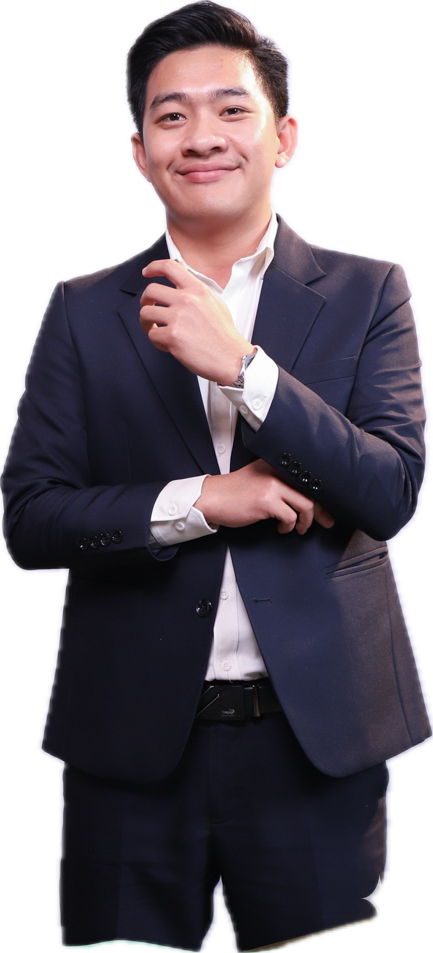
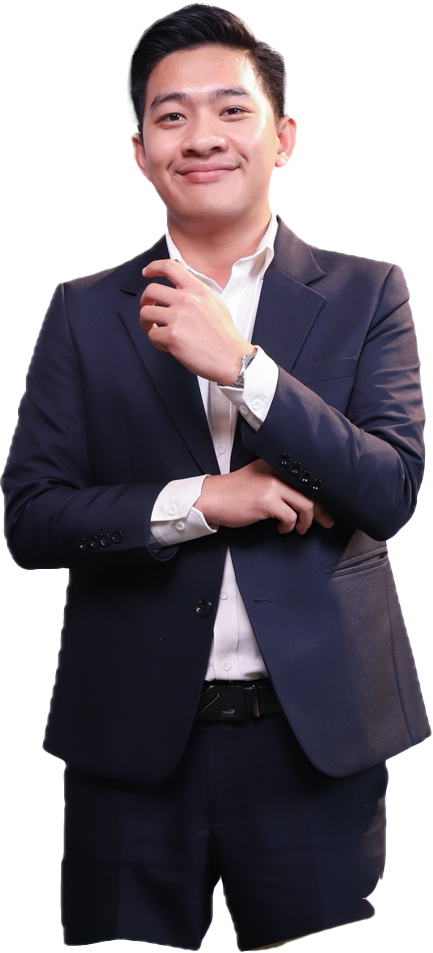
Update

diff --git a/index.html b/index.html
@@ -3834,58 +3834,30 @@
                 <div class="eu-name">Luxembourg</div>
                 <p class="eu-cities">Luxembourg City</p>
                 <span class="eu-badge">Top target · MSc 2026</span>
-                <div class="eu-tags">
-                  <span class="eu-tag">Fintech</span>
-                  <span class="eu-tag">Banking</span>
-                </div>
               </div>
               <div class="eu-card reveal" data-flag="be">
                 <div class="eu-name">Belgium</div>
                 <p class="eu-cities">Brussels · Arlon</p>
-                <div class="eu-tags">
-                  <span class="eu-tag">EU hub</span>
-                  <span class="eu-tag">Cross-border</span>
-                </div>
               </div>
               <div class="eu-card reveal" data-flag="de">
                 <div class="eu-name">Germany</div>
                 <p class="eu-cities">Frankfurt · Berlin · Munich</p>
-                <div class="eu-tags">
-                  <span class="eu-tag">Fintech</span>
-                  <span class="eu-tag">Engineering</span>
-                </div>
               </div>
               <div class="eu-card reveal" data-flag="fr">
                 <div class="eu-name">France</div>
                 <p class="eu-cities">Paris · Metz · Strasbourg</p>
-                <div class="eu-tags">
-                  <span class="eu-tag">Banking</span>
-                  <span class="eu-tag">Tech</span>
-                </div>
               </div>
               <div class="eu-card reveal" data-flag="nl">
                 <div class="eu-name">Netherlands</div>
                 <p class="eu-cities">Amsterdam · Eindhoven</p>
-                <div class="eu-tags">
-                  <span class="eu-tag">Fintech</span>
-                  <span class="eu-tag">Scale-ups</span>
-                </div>
               </div>
               <div class="eu-card reveal" data-flag="ch">
                 <div class="eu-name">Switzerland</div>
                 <p class="eu-cities">Zurich · Geneva</p>
-                <div class="eu-tags">
-                  <span class="eu-tag">Finance</span>
-                  <span class="eu-tag">Tech</span>
-                </div>
               </div>
               <div class="eu-card reveal" data-flag="at">
                 <div class="eu-name">Austria</div>
                 <p class="eu-cities">Vienna · Salzburg</p>
-                <div class="eu-tags">
-                  <span class="eu-tag">DACH</span>
-                  <span class="eu-tag">Fintech</span>
-                </div>
               </div>
               <div class="eu-card eu-card--more reveal" data-flag="eu">
                 <div class="eu-name">And more</div>
